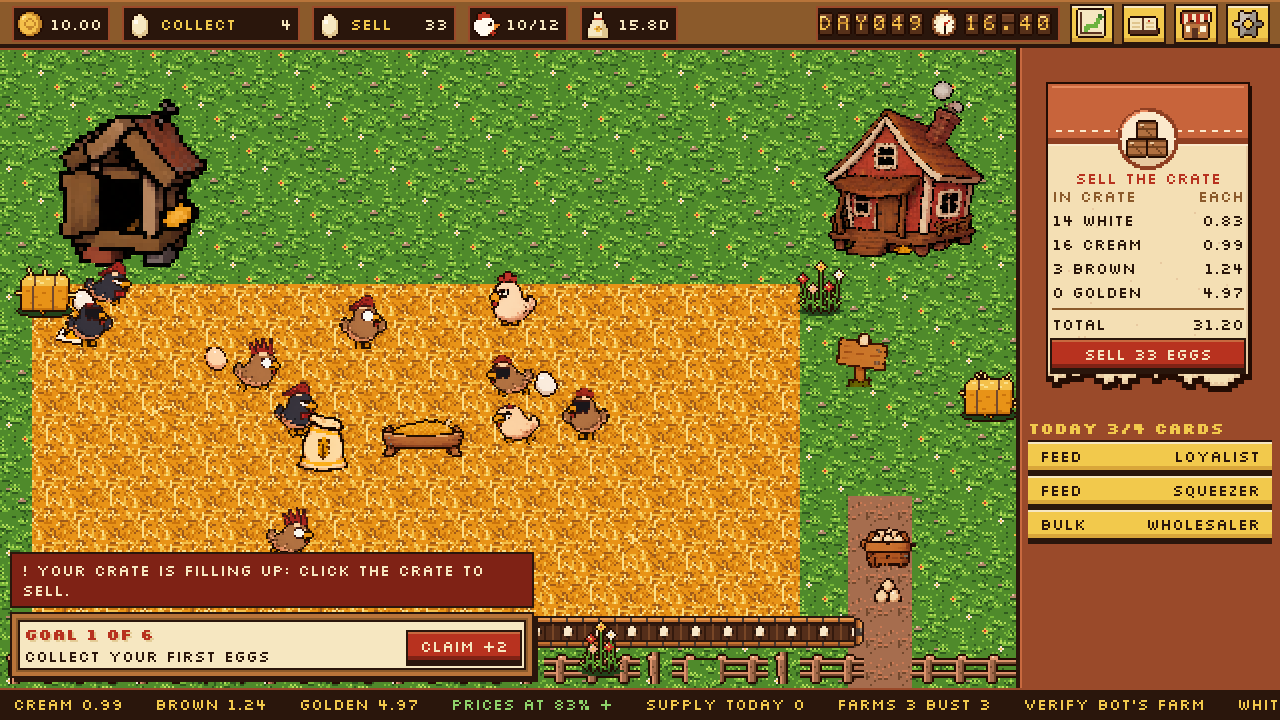
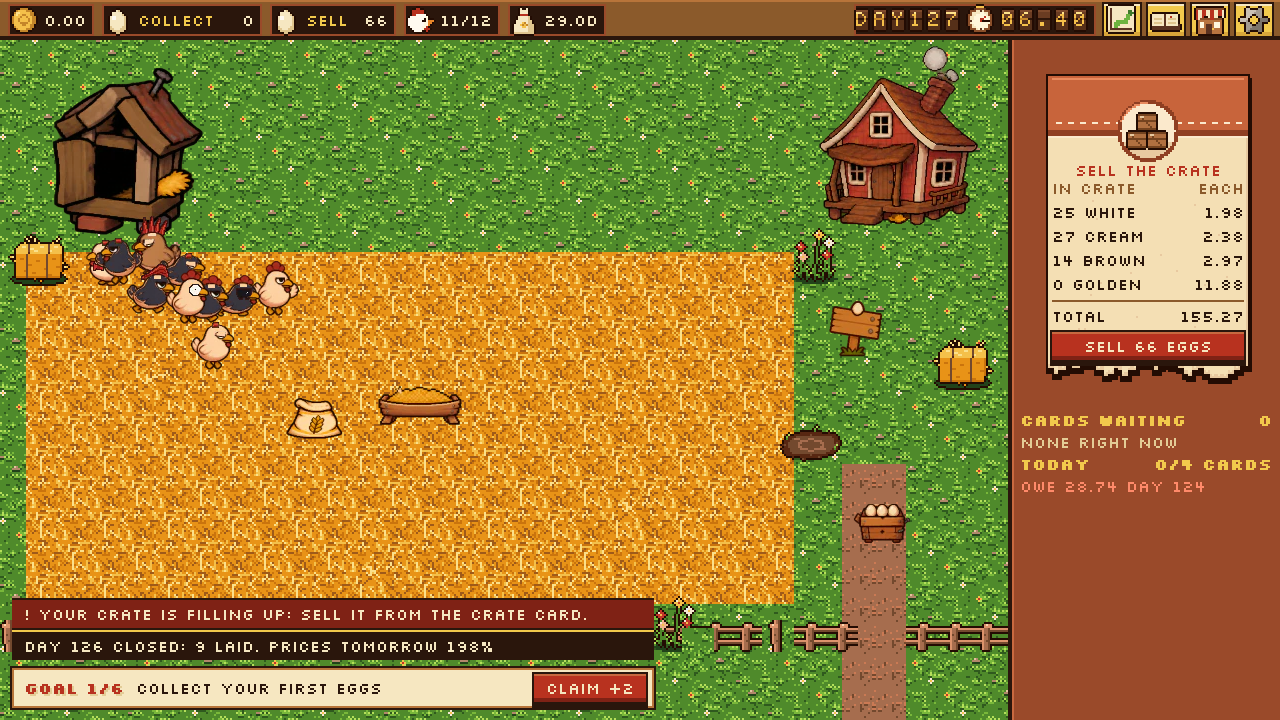
README: visual quality, the tour, live measurements and screenshots
New live screenshots at 1280x720, 1920x1080, 2560x1440 at 2x and 390x844,
the tour and every modal, and device-pixel crops of the top bar, a card and
two portraits. A section on what changed and why, the zones, the tour's ten
steps, hen certificates and the testnet shortfall, cold load per size,
the live tour and no-overlap runs, and the whole-pixel crop check. Brief 5
in the build log.

diff --git a/README.md b/README.md
@@ -71,15 +71,16 @@ Checked on 11 November 2026 at about 20:06 UTC:
 Also checked live: the title page, `/build/index-BL-i4f2Y.js` and `/assets/sprites/12-crate.png` answer 200, a
 WebSocket on `wss://yolkstreet.25th.dev/ws` upgrades (101) and answers a ping, and `/api/market` serves the market
 state. Waiting on a top-up: after the contract's storage, the seven wallets and two days of settlements,
-`play.coys-game.testnet` held 1.403 NEAR available on 12 November, 0.647 short of the 2.05 NEAR the server needs
-before it mints hens and links the seven wallets to their agents (12 NEAR recommended). Eggs settle meanwhile.
+`play.coys-game.testnet` held 1.301 NEAR available on 12 November (after the second pass), 0.749 short of the 2.05 NEAR
+the server needs before it mints hens and links the seven wallets to their agents (12 NEAR recommended). Eggs settle
+meanwhile, the market state reports hen certificates as `paused`, and every hen's card says so in plain words.
 
 ## Try it
 
 Node 22.22.2 or newer (CI and the deploy docs use 24.22.3). Each step says what to do and what you should see. Commands are the same in PowerShell and a POSIX shell unless shown otherwise.
 
 1. **Install.** Run `npm ci --ignore-scripts`. You see the lockfile install with no package install scripts (`.npmrc` also sets `ignore-scripts=true`).
-2. **Test.** Run `npm test`. On a fresh clone you see **224 tests pass and 3 skip**: the 2 Postgres tests need `TEST_DATABASE_URL` (CI sets it), and the asset re-pack check needs a coys-assets checkout beside the repo. Among them: the economy sheet (margin **0.46**, payback **17.3** days, multiplier **0.54** at 1300 supply against the fixed 600 reference, a 30-hen coop **full on day 16**), the five-seed 30-day market simulation, haggling, model fallbacks, seasons, the chain batch with a contract delivery moving tokens to the Bakery, `/healthz`, two real WebSocket clients in one market, and every frame of every derived animation (no blank frame, no neighbouring row, atlases up to date).
+2. **Test.** Run `npm test`. On a fresh clone you see **253 tests pass and 3 skip**: the 2 Postgres tests need `TEST_DATABASE_URL` (CI sets it), and the asset re-pack check needs a coys-assets checkout beside the repo. Among them: the economy sheet (margin **0.46**, payback **17.3** days, multiplier **0.54** at 1300 supply against the fixed 600 reference, a 30-hen coop **full on day 16**), the five-seed 30-day market simulation, haggling, model fallbacks, seasons, the chain batch with a contract delivery moving tokens to the Bakery, `/healthz`, two real WebSocket clients in one market, and every frame of every derived animation (no blank frame, no neighbouring row, atlases up to date).
 3. **Play.** Run `npm run dev` and open http://localhost:5173. You see an egg fill up over the loading plate, then the title: the logo stamps in and the price ticker scrolls.
 4. **Sign in.** Press **PLAY**. With `PRIVY_APP_ID` set you sign in with email; without it a red **LOCAL DEV LOGIN** label asks for a name. You see your farm: 10 hens, a starter coop, **50.00** coins, **DAY001**.
 5. **Take the tour.** On a first visit your hen walks you through the loop by doing it: collect an egg, sell, buy feed, answer a card. Each step ends when you do the thing; **SKIP** ends the tour, and **SETTINGS** replays it. After it, the goal in the corner shows what to aim for next, with a **CLAIM** button and coins when you reach it.
@@ -98,13 +99,26 @@ Node 22.22.2 or newer (CI and the deploy docs use 24.22.3). Each step says what 
 
 ## Screenshots and video
 
-The live site on 12 November 2026 (season `s1`, a verify farm), from a fresh headless browser through the tunnel:
+The live site on 12 November 2026 after the visual-quality pass (season `s1`), from fresh headless browsers through the
+tunnel. The farm at every listed size, UI drawn at whole device pixels:
 
 | 1280x720 | 1920x1080 |
 |---|---|
-| ![The farm filling a 1280x720 window: top bar with coins, eggs to collect and to sell, hens and feed; the farm, the sell card and the cards on the desk](docs/screenshots/live-1280x720.png) | ![The same farm at 1920x1080, three screen pixels per art pixel, with a crate-filling hint and the first goal ready to claim](docs/screenshots/live-1920x1080.png) |
-| **2560x1440** | **390x844 (phone)** |
-| ![The farm at 2560x1440, four screen pixels per art pixel](docs/screenshots/live-2560x1440.png) | ![The phone layout: the top bar on two rows, the farm across the width, the sell card and the desk below](docs/screenshots/live-390x844.png) |
+| ![The farm at 1280x720: top bar, the whole farm in the free area, the crate's sell card and waiting cards in the side panel, a hint above the goal tracker bottom left](docs/screenshots/live-1280x720.png) | ![The farm at 1920x1080: three device pixels per world pixel, a crate hint above the goal tracker, one card waiting](docs/screenshots/live-1920x1080.png) |
+| **2560x1440 at 2x (5120x2880 device pixels)** | **390x844 (phone)** |
+| ![The farm at 2560x1440 on a 2x screen: eight device pixels per UI pixel and full-detail painted hens](docs/screenshots/live-2560x1440@2x.png) | ![The phone layout: the top bar on two rows, the farm across the width, the goal tracker under it, the sell card and the card list below](docs/screenshots/live-390x844.png) |
+
+The tour and the modals, at 1280x720. The market board shows the temporary check farms the verification used (removed afterwards):
+
+| Tour step 1: collect | Tour step 4: gluts |
+|---|---|
+| ![The spotlight dims everything but an egg on the ground, tagged TAP THE EGG; the step box reads 1/10 COLLECT AN EGG with progress dots, BACK and SKIP](docs/screenshots/live-tour-collect.png) | ![The market board open, the supply meter spotlit with TAP THE METER; the step box explains gluts and shortages](docs/screenshots/live-tour-glut.png) |
+| **A card, composed** | **Market board** |
+| ![The Wholesaler's bulk order as one panel: portrait and line on top, what accepting means, the card art upright beside it, the answers in one row](docs/screenshots/live-card.png) | ![Today's price per grade on split flaps, the street's sales against what it needs, and the farms ranked with the bust ones](docs/screenshots/live-board.png) |
+| **Shop** | **A hen's card** |
+| ![The shop's hens: each one of a kind, drawn from her trait layers at full detail, with how she lays and her price](docs/screenshots/live-shop.png) | ![A hen's portrait at twice her farm size, her traits in words, and her certificate: pending while recording on NEAR is paused](docs/screenshots/live-hen.png) |
+| **Feed** | **Ledger** |
+| ![Feed tiers with how each changes laying, buy now or on the Loyalist's credit, and the supplier switch](docs/screenshots/live-feed.png) | ![The ledger: each day's coins in and out with its record on NEAR, contracts and debts, and hen certificates](docs/screenshots/live-ledger.png) |
 
 <details>
 <summary><b>The earlier build (11 November): title, tour, sale, haggles, glut, bust, ledger, market, shop</b></summary>
@@ -130,6 +144,112 @@ Screenshots come from a headless tour of the built game at 1280x720: the real se
 </details>
 
 **Video:** _slot for a direct upload (drag the gameplay video into this section on GitHub)._
+
+## Visual quality and the tour (12 November 2026)
+
+A recording of the live game at 2560x1284 on a 2x Mac showed assets that looked like 240p, soft top bar and card text,
+jagged text on tilted cards, panels piling onto the farm and each other, and a tour that taught only collecting. Causes
+and fixes:
+
+| What was seen | Cause | Fix |
+|---|---|---|
+| Mushy portraits, card art, hens | the previous pass cut every painted sheet down to the grid measured from its outlines (8 source pixels for a hen), throwing away the painting inside: 20% to 67% of visible pixels changed (round trip at that grid, [asset report](docs/asset-report.md)) | each sheet keeps the largest factor whose nearest round trip is near pixel-identical; painted sheets pass at no factor, so they keep their full resolution, cut per screen density |
+| Soft top bar, cards and shop | the UI was laid out at 640x360 and scaled by a fraction (1.78 on that screen) | the UI is drawn at a whole number of device pixels per UI pixel through CSS zoom, pixel fonts at whole multiples |
+| Jagged "96.00 / BAG" | the card came to rest tilted 2 degrees, stamps at 8 | nothing that carries text rotates; motion is translate and scale in whole-pixel steps |
+| Uneven pixels in the world | the world zoom was window height / 360 (3.57 device pixels a world pixel) | the world is drawn at a whole number of device pixels per world pixel, placed on whole device pixels |
+| Panels, card art and hints over the farm and each other | free-floating panels with no backdrop; the card was three loose pieces | fixed zones that never overlap; one modal at a time over a dimmed backdrop; a card is one composed panel |
+| A tour that taught one thing | four corner messages ended by events, nothing pointed at | ten spotlight steps that move on only when the player does the thing |
+
+**Art at its own detail.** `npm run derive-assets` tries factors 2, 3, 4, 6, 8, 12 and 16 and keeps the largest whose
+nearest round trip changes at most 0.5% of visible pixels by more than 24 of 255. The 25 exact sheets pass at their
+grid with 0.00% error and ship whole as lossless PNG. Every painted sheet fails even at 2 (6.5% to 31.7%), so it keeps
+its original resolution. The hen and its trait layers are judged together and share that factor, so they still stack
+pixel for pixel. Painted art ships as WebP pages (alpha lossless) cut by exact area coverage at 2, 3, 4, 6 and 8 texels
+per design pixel, on a grid that starts at each sprite's pivot. A screen loads the density that divides its zoom, so a
+texel is one device pixel (or a whole square of them). [docs/asset-report.md](docs/asset-report.md) lists every sheet:
+factors tried, the factor chosen and its round-trip error, and the previous grid's error.
+
+**Whole pixels everywhere.** With a window of $W \times H$ device pixels, the UI zoom and the farm's zoom are
+
+$$
+p = \max\{\, s \in \{2,3,4,6,8\} : W/s \ge 560,\ H/s \ge 330 \,\}, \qquad k = \max\{\, s : 502\,s \le W_{\text{world}},\ 312\,s \le H_{\text{world}} \,\}
+$$
+
+where $W_{\text{world}} \times H_{\text{world}}$ is the free area left by the top bar and the side panel, with room for the
+guide under the farm's ground line. 1280x720 gets $p = k = 2$, 1920x1080 and a 2x 1280x642 window $3$, 2560x1440 $4$,
+a 2x 2560x1440 screen $8$.
+
+**Zones.** Top bar; right side panel (the crate's sell card, waiting cards with a count, contracts and debts); a
+bottom-left goal tracker; one toast area stacked above it for hints and news; the world. Only ground lies under the
+tracker and toasts. Modals (shop, ledger, market board, a card, a hen, a machine, the crate, a certificate, settings) open
+one at a time in the world zone over a backdrop that dims the whole window; Escape and the close button dismiss them.
+
+**The tour**, each step done by doing it, with Back, Skip and progress dots, replayable from Settings:
+
+1. Collect an egg: the spotlight follows an egg on the ground.
+2. Sell from the crate at today's price.
+3. Open the market board: one market shared by every farm and trader.
+4. Tap the supply meter: everyone selling at once crashes prices (a glut), scarcity lifts them.
+5. Buy a bag of feed at the trough (on the Loyalist's credit when coins are short); the tiers show how they change laying.
+6. Answer an offer and counter it: a practice offer from a buyer, whose first counter always gets a counter back.
+7. Buy a hen: she is one of a kind, and her card opens. The sentence about NEAR is honest about whether recording is live.
+8. See what the conveyor saves.
+9. Tap the farms on the board: rivals go bust, their hens go to auction.
+10. Open the ledger: each day closes with a receipt.
+
+The goal tracker continues from there.
+
+**Hen certificates.** When a day close mints a player's hen, the server stores the settlement transaction and day on her
+and tells her owner (`henMinted`). The game then shows a certificate: her portrait and traits, a stamp, and one line, "SHE
+IS NOW PERMANENTLY YOURS ON NEAR", with the receipt in the ledger. Her card shows her token and receipt link. While
+`play.coys-game.testnet` is below its 2.05 NEAR threshold (1.301 available, 0.749 short), mints wait and the game says
+"certificate pending: recording on NEAR is paused for now".
+
+**Measured live** on 12 November 2026, from fresh headless browsers through the tunnel. Cold load with an empty cache,
+median of three runs (range in brackets), to a playable farm (top bar up and farm objects on the canvas):
+
+| Window | Before (brief 4) | After | On the wire by then (the sharp art keeps arriving) |
+|---|---|---|---|
+| 1280x720 | 7.4 s, 5.4 MB | **5.1 s** (5.0 to 6.0) | 1.6 MB |
+| 1920x1080 | | **8.2 s** (4.8 to 11.9); 6.0 to 6.9 s on three further runs | 2.4 to 5.4 MB |
+| 2560x1440 | | **5.6 s** (4.5 to 7.9) | 1.6 to 4.4 MB |
+| 2560x1440 at 2x | | **8.7 s** (7.2 to 8.8) | 1.6 to 9.5 MB |
+| 390x844 | | **8.6 s** (6.5 to 10.9) | 1.6 to 4.4 MB |
+
+The farm comes up with the smallest painted density that divides the screen's zoom (about 1 MB, drawn several device
+pixels a texel), then the sharp one; sounds wait until the sharp farm is in. The loading screen is on screen in 0.6 s.
+
+- **Tour, live, by doing:** an automated browser completed all ten steps at 1280x720, 1440x900, 1920x1080, 2560x1440 and
+  390x844, on a fresh check farm each, clicking only what the spotlight showed, in 38 to 61 seconds.
+- **No overlap:** at each of those sizes, the boxes of the top bar, side panel, tracker, toasts, tour box and modal never
+  overlapped at any tour step or with each modal open (shop hens, feed and machines, ledger, board and orders, crate,
+  conveyor, settings, a hen, a certificate). Nothing on the farm sat under a UI zone, and no page logged an error.
+  `apps/client/test/viewport.test.ts` asserts the same layout rules for eight window sizes.
+- **Whole pixels:** in device-pixel crops at 2x 2560x1440, the share of aligned blocks whose pixels are all one colour
+  (a fractionally scaled image scores about 73%):
+
+| Crop | Block | Uniform |
+|---|---|---|
+| top bar (icons, labels, counters) | 8x8 | 100% |
+| card art with its terms (a card modal) | 8x8 | 100% |
+| the crate's sell card in the side panel | 8x8 | 99.4% (its centred title sits half a UI pixel over: 4 whole device pixels) |
+| a hen's portrait (painted, full detail at 2x) | 2x2 | 100% |
+| an agent's portrait (painted, full detail at 2x) | 2x2 | 100% |
+
+<details>
+<summary><b>The crops</b> (device pixels, 2x 2560x1440)</summary>
+
+<br>
+
+| Top bar | Card art | Hen | Agent |
+|---|---|---|---|
+| ![Top bar crop: icons and pixel text in 8x8 device-pixel blocks](docs/screenshots/crop-topbar-5k.png) | ![Card art crop: the bulk order card, upright, its pixel text crisp](docs/screenshots/crop-card-5k.png) | ![A hen's portrait at full painted detail](docs/screenshots/crop-hen-5k.png) | ![The Wholesaler's portrait at full painted detail](docs/screenshots/crop-agent-5k.png) |
+
+</details>
+
+The Verify Bot farm from the rescue's checks is gone from season `s1` entirely (`scripts/remove-player.ts`: its hens,
+coop, machine, cards and ledger, out of the market, the rankings, demand and the ticker), and so are the five check farms
+this pass used.
 
 ## Playability rescue (12 November 2026)
 
@@ -162,7 +282,7 @@ saw its card open each time, and collected a ground egg: **COLLECT** went down b
 up by one. Before the fix the farm canvas took no clicks at all.
 
 <details>
-<summary><b>True sprite sizes</b> (one art pixel = one world pixel unless noted)</summary>
+<summary><b>True sprite sizes</b> of that pass (superseded the same day: painted art now keeps its full detail, see the asset report)</summary>
 
 <br>
 
@@ -346,13 +466,13 @@ Each agent has its own cash, stock and **memory of every farm** (deals, value, r
 <details>
 <summary><b>Client</b>: screens, juice and sound</summary>
 
-- 640x360, scaled by a whole number, nearest-neighbour everywhere. PixiJS draws the farm and the town square; anime.js drives every UI motion.
-- **Card overlay**: slides in with an overshoot and a paper swoosh; the portrait talks with its voice babble while the line types out; outcomes play the agent's expression and slam a stamp; a haggle win flips the card to gold with a hitstop, shake, confetti and the win chime; a fail sends the agent walking with the fail sound.
+- Whole device pixels everywhere: the UI is laid out in UI pixels drawn at $p$ device pixels each (CSS zoom), the world at $k$ device pixels per world pixel, painted art from the atlas cut for that density (see [Visual quality](#visual-quality-and-the-tour-12-november-2026)). PixiJS draws the farm and the town square; anime.js drives every UI motion, in whole-pixel steps, never rotating text.
+- **Card overlay**: one composed modal (portrait and line, the card art upright beside them, answers in one row); the card slides in with an overshoot and a paper swoosh; the portrait talks with its voice babble while the line types out; outcomes play the agent's expression and slam a stamp; a haggle win flips the card to gold with a hitstop, shake, confetti and the win chime; a fail sends the agent walking with the fail sound.
 - **Market board**: town square plate with animated bunting and a milling crowd (market murmur loop), split-flap ticker board by grade, farms ranked with their signs, the cast, big trades, the order book.
 - **Ledger**: day-by-day profit, contracts, debts, and the on-chain receipt link per day.
 - **Shop**: listed hens drawn from their trait layers with laying trait and price (auction hens marked), feed with supplier switching, coops, machines.
 - **Rival bust**: the sign tips over, a price wave crosses the ticker, medium shake, falling feathers, the collapse crash and the bust sting. **Glut**: the ticker drops red and the market tension music plays until prices recover.
-- **First-run tour**: three cards told by the farm's own hen (collecting, selling, decision cards), with the offer cards' art and swing-in; skippable and shown once per browser. Offer cards wait until it closes, and an unanswered card closes with its day.
+- **Tour**: ten spotlight steps covering the whole game, each moving on only when the player does it; Back, Skip, progress dots, replayable from Settings. Waiting cards queue in the side panel with a count; an unanswered card closes with its day.
 - **Page**: descriptive title and meta description, a favicon and a 1200x630 share image cut from the sprites by `scripts/make-share-images.ts`.
 - Everything from brief 1 stays: lays, hand collect, big haul, deal stamp, coop builds, unlocks, crash, new day.
 
@@ -459,11 +579,23 @@ On a fresh clone: `npm ci --ignore-scripts`, then typecheck, lint, test and buil
 
 The live Pier deploy and its tunnel were checked end to end on 11 November 2026 (receipts under [How NEAR fits in](#how-near-fits-in)).
 
+The visual-quality pass was checked live on 12 November 2026: cold load at five sizes, the whole tour completed by an automated browser at five sizes, the no-overlap check with every modal and tour step open, and device-pixel crops (numbers under [Visual quality](#visual-quality-and-the-tour-12-november-2026)).
+
 The playability rescue was checked live on 12 November 2026: cold load, the four window sizes, every world object's card, an egg collected, and a 20-second flicker capture (numbers under [Playability rescue](#playability-rescue-12-november-2026)).
 
-**Not verifiable headlessly:** a Render deploy, Privy login on the live domain, NEAR AI decisions without credits, how haggling and cards feel, whether portraits and voices read right, and how the market evolves over weeks of real play.
+**Not verifiable headlessly:** whether it now looks and feels good to a person, a Render deploy, Privy login on the live domain, NEAR AI decisions without credits, how haggling and cards feel, whether portraits and voices read right, and how the market evolves over weeks of real play.
 
 ## Build log
+
+### Brief 5: visual quality, layout and the tour (12 November 2026)
+
+- Every asset at the detail its round trip allows ([asset report](docs/asset-report.md)): exact sheets at their grid, painted art at full resolution, cut per screen density as WebP pages.
+- UI at the screen's own resolution (whole device pixels per UI pixel), the world at whole device pixels per world pixel, no rotated text, whole-pixel motion; plates cover the window or mirror their edges.
+- Fixed zones that never overlap, one modal at a time over a backdrop, a composed card panel, waiting cards queued with a count; a layout test at eight sizes.
+- A ten-step spotlight tour of the whole game, done by doing; a practice offer to haggle on; feed on credit for players.
+- Hen certificates: mint receipts on each hen, a `henMinted` event and a certificate moment; honest wording while minting is paused.
+- The smallest density first, then sharp, then sound: a playable farm in 5 to 9 seconds cold through the tunnel.
+- The Verify Bot farm removed from season `s1` (`scripts/remove-player.ts`).
 
 ### Brief 4: playability rescue (12 November 2026)
 
